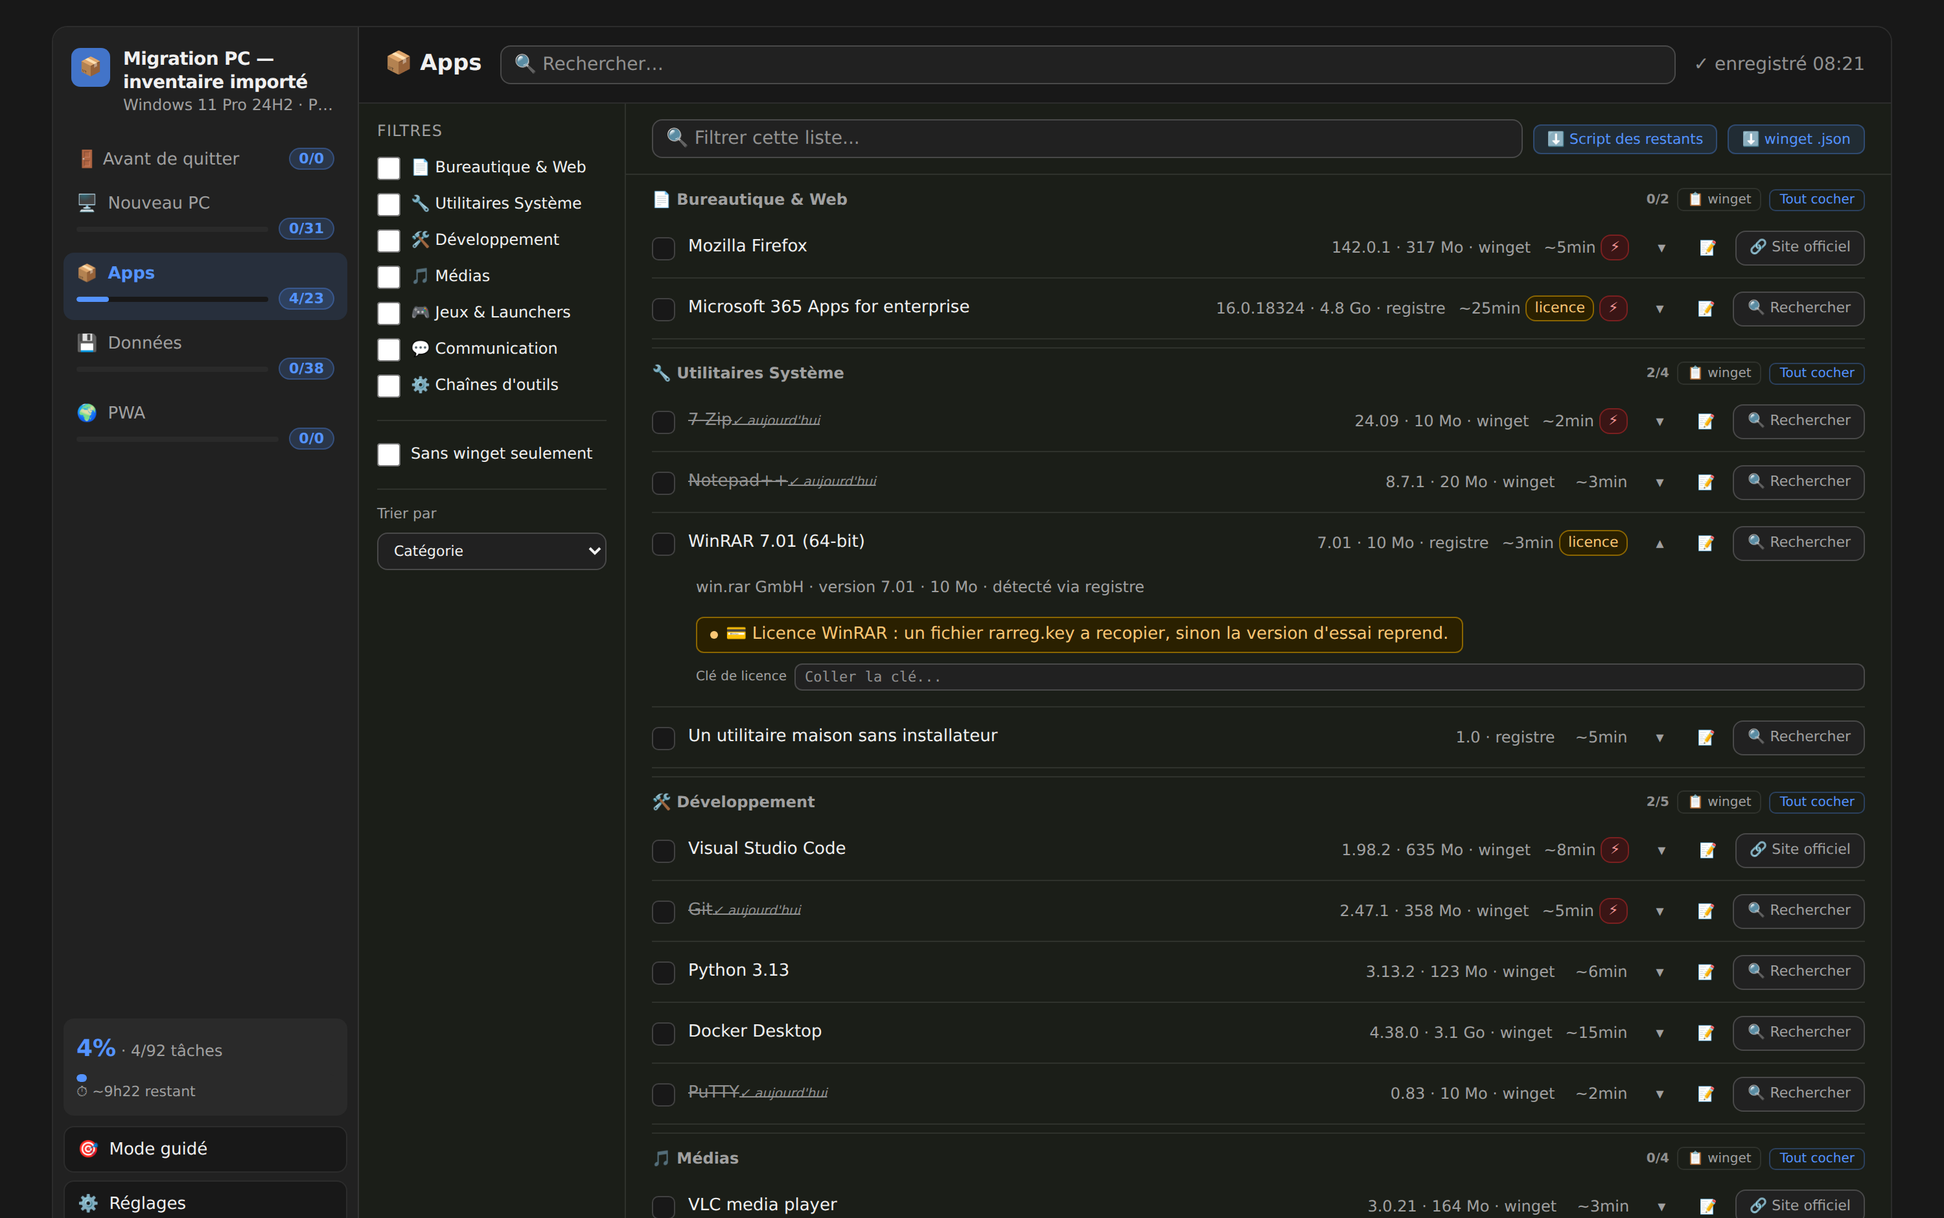
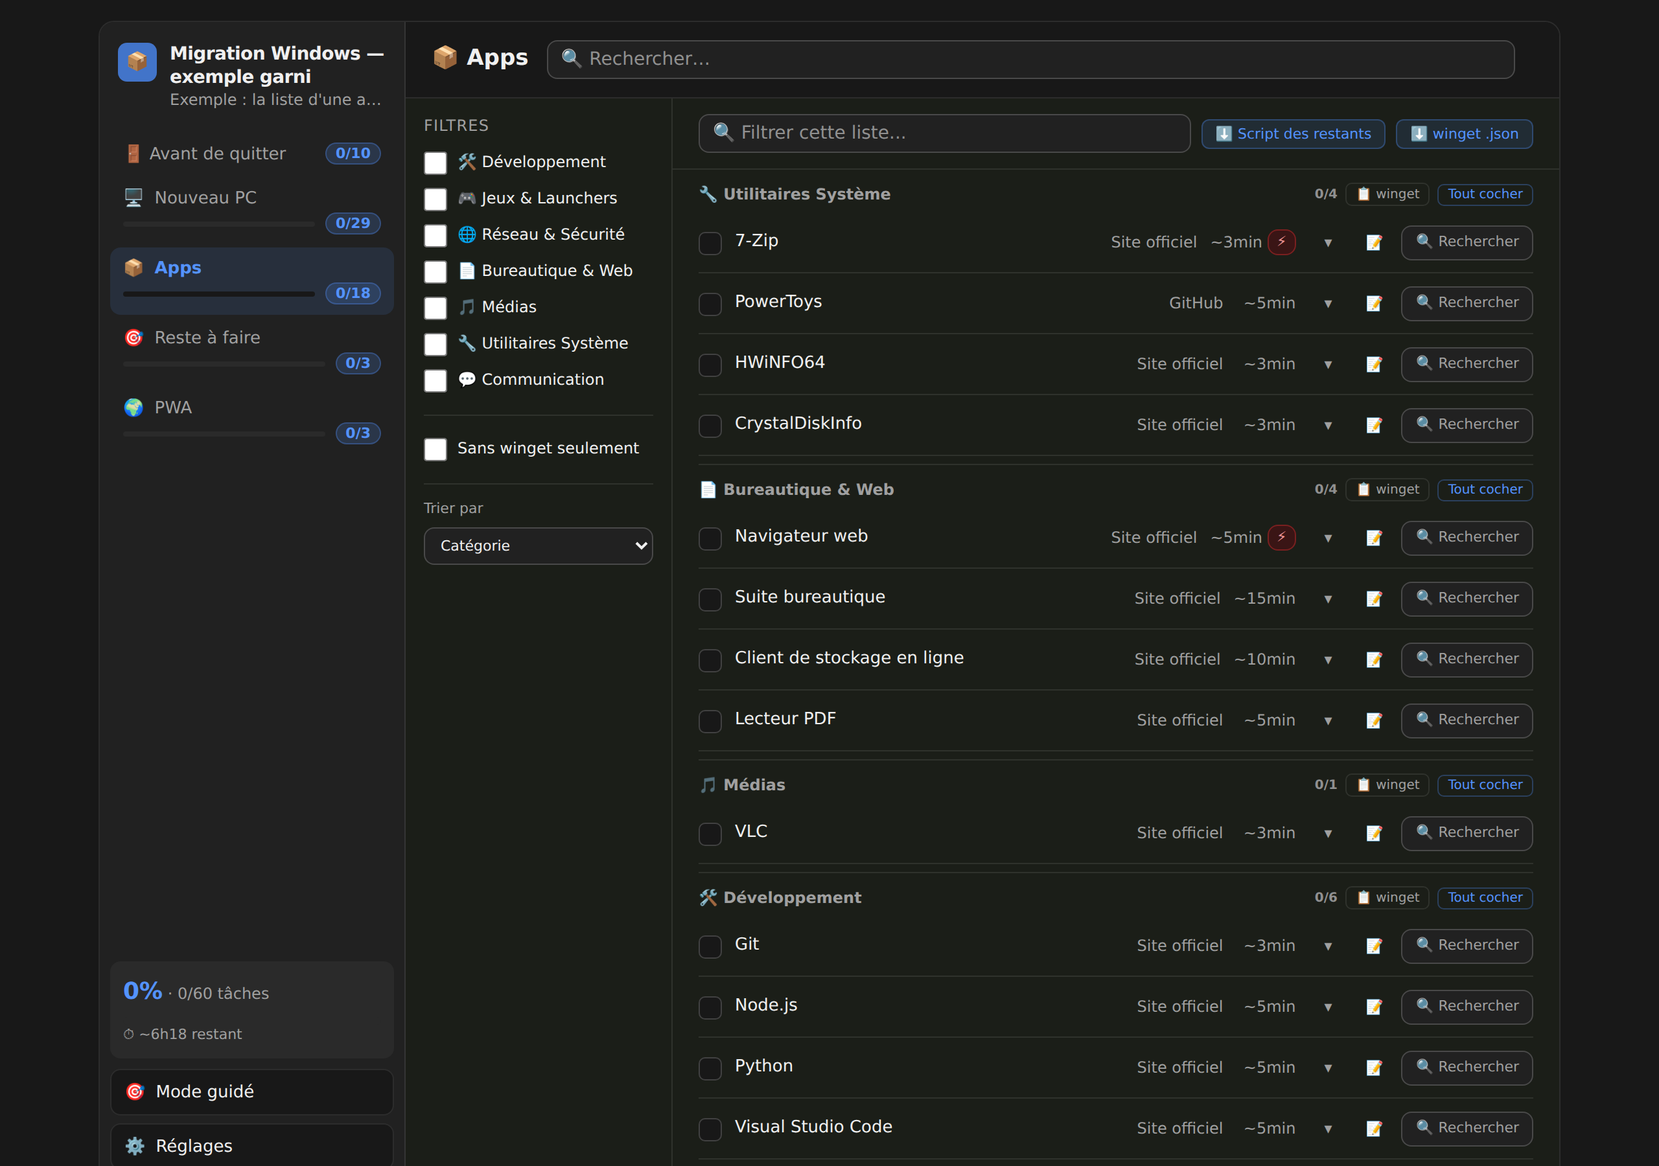
Retirer ce que la réduction avait laissé derrière elle
Trois restes, trouvés en cherchant au lieu de répondre « rien ne manque ».

1. La moitié « payant » et « variables d'environnement » vivait encore dans
   la page alors que leurs détecteurs sont partis. inventaireVersProfil
   écrivait pay et lic depuis un champ que plus rien ne produit, le badge
   « licence » ne pouvait plus s'afficher, mkLicField, mkEnvFields, ENV_VARS,
   S.lic et S.env n'étaient plus atteignables — avec leur CSS et leurs
   écouteurs. Tout part.

2. Le parcours du lanceur ne parlait nulle part de la clé USB. Il disait
   « sur la CIBLE : scanner de nouveau » sans jamais dire de débrancher la
   clé et de l'emporter, alors que c'est le geste dont tout dépend. Il le
   dit maintenant, des deux côtés.

3. Les captures du README montraient encore la page à six onglets, avec
   « Données » que le projet n'a plus. Une capture ne casse aucun test :
   rien ne signalait qu'elle avait vieilli. Elles sont refaites, et
   refaire-captures.js entre dans le dépôt pour que la prochaine fois coûte
   une commande.

Claude-Session: https://claude.ai/code/session_01A4AtVVND9HaH7XALzYv6Aj

diff --git a/index.html b/index.html
@@ -314,7 +314,6 @@ body.compact .item{padding:5px 0}
 .lg-br{display:none}
 .lg-l.done .lg-n{text-decoration:line-through;color:var(--tx3)}
 .lg-det{padding:2px 0 12px 34px;cursor:default}
-.lg-det .lic-field,.lg-det .env-field{margin-top:8px}
 .lg-det-d{font-size:12px;color:var(--tx2);line-height:1.5;margin-bottom:8px}
 /* Sur un ecran etroit, sept colonnes ne tiennent pas : la version et la
    provenance passent sous le nom plutot que de le comprimer a trois lettres. */
@@ -401,7 +400,6 @@ body.compact .item{padding:5px 0}
 .b-winget:hover{opacity:.8}
 .b-time{background:var(--bg2);color:var(--tx2);border-color:var(--brd)}
 .b-high{background:var(--bh-bg);color:var(--bh-tx);border-color:var(--bh-bd)}
-.b-pay{background:var(--warn-bg);color:var(--warn-tx);border-color:var(--warn-bd)}
 .b-pwa{background:var(--bpwa-bg);color:var(--bpwa-tx);border-color:var(--bpwa-bd)}
 .b-sync{background:var(--bord-bg);color:var(--bord-tx);border-color:var(--bord-bd);font-weight:600}
 .b-num{width:22px;height:22px;border-radius:50%;background:var(--accl);color:var(--acc-fort);border:.5px solid var(--accb);font-size:11px;font-weight:700;display:inline-flex;align-items:center;justify-content:center;flex-shrink:0}
@@ -484,19 +482,8 @@ body.compact .item{padding:5px 0}
 .item.post-item.done .chkbox{background:var(--bok-tx);border-color:var(--bok-bd)}
 
 /* ── V6 : champ licence ── */
-.lic-field{margin-top:6px;display:flex;align-items:center;gap:6px}
-.lic-field label{font-size:10px;color:var(--tx2);white-space:nowrap;flex-shrink:0}
-.lic-field input{flex:1;font-size:11px;padding:3px 7px;border:.5px solid var(--brd2);border-radius:6px;background:var(--bg2);color:var(--tx);outline:none;font-family:"Cascadia Code","Consolas",monospace}
-.lic-field input:focus{border-color:var(--acc-fort)}
-.lic-field input::placeholder{color:var(--tx3)}
 
 /* ── V6 : champ env ── */
-.env-fields{margin-top:6px;display:flex;flex-direction:column;gap:4px}
-.env-row{display:flex;align-items:center;gap:6px}
-.env-row label{font-size:10px;color:var(--tx2);width:110px;flex-shrink:0;font-family:"Cascadia Code","Consolas",monospace}
-.env-row input{flex:1;font-size:11px;padding:3px 7px;border:.5px solid var(--brd2);border-radius:6px;background:var(--bg2);color:var(--tx);outline:none;font-family:"Cascadia Code","Consolas",monospace}
-.env-row input:focus{border-color:var(--acc-fort)}
-.env-row input::placeholder{color:var(--tx3)}
 
 /* ── V6 : bouton suivant ── */
 .next-tab-btn{display:flex;align-items:center;justify-content:flex-end;padding:10px 20px;border-top:.5px solid var(--brd);background:transparent}
@@ -859,19 +846,15 @@ body.guide-actif .history-bar{display:none}
   .sec-prog-txt,.b-num,.item-date,.item-desc,.save-note,.save-path,
   .tbar-info,.gsearch-count,.sec-hdr-cnt{font-size:12px}
   .gp-label,.tab-badge,.badge,.sec-hdr{font-size:12px}
-  .lic-field label,.env-row label{font-size:12px}
 
   /* Champs : 16 px, sinon iOS zoome à la mise au point et casse la mise en page. */
-  input,select,textarea,.lic-field input,.env-row input,
+  input,select,textarea,
   #gsearch-input,#apps-search,.sort-sel{font-size:16px}
 
   /* Les libellés de variables passent au-dessus du champ : côte à côte,
      110 px de libellé ne laissent plus rien au champ sur 360 px de large. */
-  .env-row{flex-direction:column;align-items:stretch;gap:3px}
-  .env-row label{width:auto}
   /* Les trois lignes de variables se suivaient à 4 px : sur un écran tactile
      on vise le mauvais champ. */
-  .env-fields{gap:10px}
 
   /* .icon-only fixe une largeur de 32 px pour l'affichage large : la règle
      générique plus haut ne suffit pas à la remplacer. */
@@ -2857,7 +2840,6 @@ function exportProfil(){
 // ═══ INVENTAIRE → PROFIL ═══
 // Transforme la sortie de scan-pc.ps1 en profil utilisable.
 const CAT_PAR_DEFAUT='system';
-const CAT_OUTILS='outils';
 
 // Le scanner relève le matériel : autant remplir les champs prévus pour lui
 // plutôt que de les faire recopier à la main depuis une étiquette de carton.
@@ -2927,13 +2909,6 @@ function inventaireVersProfil(inv){
       }))
     :PROFIL_DEFAUT.pwa;
 
-  // Le scanner relève les variables personnalisées : autant remplir les champs
-  // prévus pour elles plutôt que de les faire recopier à la main.
-  const vars=inv.variables&&typeof inv.variables==='object'?Object.keys(inv.variables):[];
-  vars.forEach(function(v){
-    if(!S.env[v])S.env[v]=String(inv.variables[v]);
-  });
-  if(vars.length)saveState();
   const reprisMateriel=appliquerMateriel(inv.materiel,false);
   const cats={};
   const out=[];
@@ -2966,11 +2941,6 @@ function inventaireVersProfil(inv){
       u:a.lien||undefined,
       p:a.priorite||'med',
       t:a.duree||5,
-      // Ce que le scan sait d'une licence : rien de la machine, tout d'une
-      // liste tenue à la main. Vide veut dire « je ne sais pas », pas
-      // « gratuit », et la ligne ne prétend rien de plus.
-      pay:a.payant?String(a.payant):undefined,
-      lic:a.payant?true:undefined,
       d:bouts.join(' · ')||'Détecté sur l\'ancien PC.'
     });
   });
@@ -3511,7 +3481,7 @@ function traiterDonnees(d,provenance){
     }
     if(d && d.state){
       memoriserAnnulation('Progression importée.'+suffixe,false);
-      S={checked:d.state.checked||{},notes:d.state.notes||{},dates:d.state.dates||{},lic:d.state.lic||{},env:d.state.env||{},lastSave:null};
+      S={checked:d.state.checked||{},notes:d.state.notes||{},dates:d.state.dates||{},lastSave:null};
       saveState();renderAll();updateGlobal();
       dire('Progression importée : '+Object.keys(S.checked).length+' tâches cochées.');
       return true;
@@ -3536,7 +3506,7 @@ function handleImport(evt){
 
 // ═══ STATE ═══
 const PRIO = {high:0,med:1,ok:2};
-let S = {checked:{},notes:{},dates:{},lastSave:null,lic:{},env:{}};
+let S = {checked:{},notes:{},dates:{},lastSave:null};
 let curCats=[];
 let curTab='quitter',noWinget=false,viewMode='normal',isDark=false;
 // « journal » et non « history » : une globale nommée history masque
@@ -3618,7 +3588,7 @@ function searchUrl(name,e){
 
 // ═══ STORAGE ═══
 function loadState(){
-  try{const r=localStorage.getItem(CLE_ETAT);if(r){const d=JSON.parse(r);if(d&&typeof d==='object'){S.checked=d.checked||{};S.notes=d.notes||{};S.dates=d.dates||{};S.lastSave=d.lastSave||null;S.lic=d.lic||{};S.env=d.env||{};}}}catch(e){console.error(e);}
+  try{const r=localStorage.getItem(CLE_ETAT);if(r){const d=JSON.parse(r);if(d&&typeof d==='object'){S.checked=d.checked||{};S.notes=d.notes||{};S.dates=d.dates||{};S.lastSave=d.lastSave||null;}}}catch(e){console.error(e);}
   updateSaveLabel();
 }
 // Une sauvegarde qui echoue en silence est pire qu'une sauvegarde absente :
@@ -3976,7 +3946,6 @@ function mkAppItem(a){
   const ouvert=!!lignesOuvertes[a.id];
   const dt=ck&&S.dates[a.id]?'<span class="item-date">✓ '+fmtDate(S.dates[a.id])+'</span>':'';
   const pBadge=a.p==='high'?'<span class="badge b-high">⚡</span>':'';
-  const payBadge=a.pay?'<span class="badge b-pay" title="'+esc(String(a.pay))+'">licence</span>':'';
   const meta=[];
   if(a.ver)meta.push(esc(String(a.ver)));
   if(a.go)meta.push(esc(fmtTaille(a.go)));
@@ -3989,12 +3958,10 @@ function mkAppItem(a){
     detail='<div class="lg-det" onclick="event.stopPropagation()">'
       +(d?'<p class="lg-det-d">'+esc(d)+'</p>':'')
       +(a.warn?'<div class="warn-badge">⚠ '+esc(a.warn)+'</div>':'')
-      +(a.pay?'<div class="warn-badge">💳 '+esc(String(a.pay))+'</div>':'')
       +(a.dep?mkDepBadge(a.dep):'')
       +(cmd?'<button type="button" class="badge b-winget" onclick="'
         +(a.w?'copyWinget(\''+escJS(a.w)+'\',event)':'copierCommande(\''+escJS(a.cmd)+'\',event)')
         +'" title="Copier la commande d\'installation">📋 '+esc(cmd)+'</button>':'')
-      +mkLicField(a)
       +mkNoteArea(a.id)
       +'</div>';
   }
@@ -4005,7 +3972,7 @@ function mkAppItem(a){
       +'<span class="lg-n">'+esc(libelleDe(a))+dt+'</span>'
       +'<span class="lg-br" aria-hidden="true"></span>'
       +'<span class="lg-m">'+meta.join(' · ')+'</span>'
-      +'<span class="lg-t">'+(a.t?fmtTime(a.t):'')+payBadge+pBadge+'</span>'
+      +'<span class="lg-t">'+(a.t?fmtTime(a.t):'')+pBadge+'</span>'
       +'<button type="button" class="lg-plus" aria-expanded="'+ouvert+'" '
         +'aria-label="'+(ouvert?'Masquer':'Afficher')+' le détail de '+esc(libelleDe(a))+'" '
         +'onclick="basculerDetail(\''+escJS(a.id)+'\',event)">'+(ouvert?'▴':'▾')+'</button>'
@@ -4078,8 +4045,6 @@ function renderParPriorite(onglet,donnees,labels){
           +'<div class="item-name-row"><span class="item-name">'+esc(libelleDe(s))+'</span>'+dt+mkNoteBtn(s.id)+'</div>'
           +(s.p?'<div class="save-path">'+esc(s.p)+'</div>':'')
           +(s.note?'<div class="save-note">'+esc(s.note)+'</div>':'')
-          +mkLicField(s)
-          +mkEnvFields(s)
           +mkNoteArea(s.id)
         +'</div>'
       +'</div>';
@@ -4623,8 +4588,7 @@ let annulation=null;
 
 function copieEtat(){
   return {checked:Object.assign({},S.checked),notes:Object.assign({},S.notes),
-    dates:Object.assign({},S.dates),lic:Object.assign({},S.lic),
-    env:Object.assign({},S.env)};
+    dates:Object.assign({},S.dates)};
 }
 
 // Appelée AVANT l'action destructrice. Le profil n'est mémorisé que lorsque
@@ -4668,7 +4632,6 @@ function annuler(){
   }
   if(a.scenario&&a.scenario!==scenario)changerScenario(a.scenario);
   S.checked=a.etat.checked;S.notes=a.etat.notes;S.dates=a.etat.dates;
-  S.lic=a.etat.lic;S.env=a.etat.env;
   saveState();renderAll();updateGlobal();renderHistory();
   masquerAnnulation();
 }
@@ -4729,7 +4692,7 @@ function remiseAZero(){
     localStorage.removeItem(CLE_CONFIG);
     localStorage.removeItem(CLE_SCAN);
   }catch(e){console.error(e);}
-  S.checked={};S.notes={};S.dates={};S.lic={};S.env={};S.lastSave=null;
+  S.checked={};S.notes={};S.dates={};S.lastSave=null;
   journal=[];openNotes={};sautees={};
   scenario='tout';
   CONFIG={};construireConfig();fermerConfig();
@@ -5308,8 +5271,6 @@ window.addEventListener('DOMContentLoaded',function(){
   chargerInstantanes();
   chargerConfig();
   document.addEventListener('input',function(e){
-    if(e.target.classList.contains('lic-input')){saveLic(e.target.dataset.id,e.target.value);}
-    if(e.target.classList.contains('env-input')){saveEnv(e.target.dataset.var,e.target.value);}
   });
   document.addEventListener('keydown',clavierGlobal);
   try{
@@ -5341,39 +5302,6 @@ function enregistrerServiceWorker(){
   navigator.serviceWorker.register('sw.js').catch(function(e){
     console.info("Service worker non enregistré :",e&&e.message);
   });
-}
-
-// ═══ V6 : CHAMP LICENCE ═══
-// Affiché uniquement sur les éléments que le profil marque avec lic.
-function mkLicField(item){
-  if(!item||!item.lic)return '';
-  var id=item.id;
-  var val=S.lic&&S.lic[id]?S.lic[id]:'';
-  return '<div class="lic-field" onclick="event.stopPropagation()"><label>Clé de licence</label><input class="lic-input" data-id="'+esc(id)+'" type="text" placeholder="Coller la clé..." value="'+esc(val)+'"></div>';
-}
-function saveLic(id,val){
-  if(!S.lic)S.lic={};
-  if(val.trim())S.lic[id]=val;else delete S.lic[id];
-  saveState();
-}
-
-// ═══ V6 : CHAMP ENV ═══
-// env vaut true (liste par défaut) ou un tableau de noms de variables.
-const ENV_VARS=['ANDROID_HOME','JAVA_HOME','PATH_CUSTOM'];
-function mkEnvFields(item){
-  if(!item||!item.env)return '';
-  if(!S.env)S.env={};
-  var vars=Array.isArray(item.env)?item.env:ENV_VARS;
-  var fields=vars.map(function(v){
-    var val=S.env[v]||'';
-    return '<div class="env-row" onclick="event.stopPropagation()"><label>'+v+'</label><input class="env-input" data-var="'+v+'" type="text" placeholder="Chemin..." value="'+esc(val)+'"></div>';
-  }).join('');
-  return '<div class="env-fields">'+fields+'</div>';
-}
-function saveEnv(varname,val){
-  if(!S.env)S.env={};
-  if(val.trim())S.env[varname]=val;else delete S.env[varname];
-  saveState();
 }
 
 // ═══ V6 : BOUTON SUIVANT ═══

diff --git a/refaire-captures.js b/refaire-captures.js
@@ -1,0 +1,73 @@
+// Refabrique les captures du README. Six images : la liste, le mode guidé et
+// le téléphone, chacun dans les deux thèmes.
+//
+// Ce fichier existe parce que les captures ont menti. Le projet est passé de
+// six onglets à cinq, l'onglet « Données » a disparu, et le README a continué
+// d'afficher l'ancienne page pendant tout ce temps : une capture ne casse
+// aucun test, donc rien ne signale qu'elle a vieilli. Avec un script, les
+// refaire coûte une commande au lieu d'une demi-heure de clics.
+//
+//   node refaire-captures.js
+//
+// Le profil de démonstration est chargé comme le ferait quelqu'un qui clique
+// « Voir un exemple garni » — le profil livré n'a aucune application, et une
+// capture vide n'apprendrait rien.
+const {chromium}=require('playwright');
+const path=require('path');
+
+const R=__dirname;
+const HTML='file://'+path.join(R,'index.html');
+
+(async()=>{
+  const b=await chromium.launch({executablePath:process.env.CHROME});
+  for(const theme of ['clair','sombre']){
+    const t=theme==='clair'?'light':'dark';
+    // — bureau —
+    let ctx=await b.newContext({viewport:{width:1280,height:900},deviceScaleFactor:2});
+    let pg=await ctx.newPage();
+    await pg.goto(HTML,{waitUntil:'networkidle'});
+    await pg.evaluate(x=>document.documentElement.setAttribute('data-theme',x),t);
+    await pg.evaluate(()=>{try{chargerDemo();}catch(e){}});
+    await pg.waitForTimeout(400);
+    await pg.evaluate(()=>{
+      ['debut','annul'].forEach(id=>{const e=document.getElementById(id);if(e)e.style.display='none';});
+      document.querySelectorAll('.annul-bar,.annul').forEach(e=>e.style.display='none');
+    });
+    await pg.click('#tab-apps');
+    await pg.waitForTimeout(400);
+    await pg.screenshot({path:path.join(R,'captures','checklist-'+theme+'.png')});
+    await ctx.close();
+    // — mode guidé : une tâche à l'écran, donc une fenêtre à sa mesure —
+    ctx=await b.newContext({viewport:{width:1100,height:620},deviceScaleFactor:2});
+    pg=await ctx.newPage();
+    await pg.goto(HTML,{waitUntil:'networkidle'});
+    await pg.evaluate(x=>document.documentElement.setAttribute('data-theme',x),t);
+    await pg.evaluate(()=>{try{chargerDemo();}catch(e){}});
+    await pg.waitForTimeout(400);
+    await pg.evaluate(()=>{
+      ['debut','annul'].forEach(id=>{const e=document.getElementById(id);if(e)e.style.display='none';});
+      document.querySelectorAll('.annul-bar,.annul').forEach(e=>e.style.display='none');
+      try{basculerGuide();}catch(e){}
+    });
+    await pg.waitForTimeout(400);
+    await pg.screenshot({path:path.join(R,'captures','mode-guide-'+theme+'.png')});
+    await ctx.close();
+    // — téléphone —
+    ctx=await b.newContext({viewport:{width:390,height:844},deviceScaleFactor:3,hasTouch:true,isMobile:true});
+    pg=await ctx.newPage();
+    await pg.goto(HTML,{waitUntil:'networkidle'});
+    await pg.evaluate(x=>document.documentElement.setAttribute('data-theme',x),t);
+    await pg.evaluate(()=>{try{chargerDemo();}catch(e){}});
+    await pg.waitForTimeout(400);
+    await pg.evaluate(()=>{
+      ['debut','annul'].forEach(id=>{const e=document.getElementById(id);if(e)e.style.display='none';});
+      document.querySelectorAll('.annul-bar,.annul').forEach(e=>e.style.display='none');
+    });
+    await pg.click('#tab-apps');
+    await pg.waitForTimeout(400);
+    await pg.screenshot({path:path.join(R,'captures','mobile-'+theme+'.png')});
+    await ctx.close();
+  }
+  await b.close();
+  console.log('six captures refaites');
+})();

diff --git a/tests/test-reinit.js b/tests/test-reinit.js
@@ -39,13 +39,12 @@ const ouvrirPanneau=async()=>{
 const defaut=await pg.evaluate(()=>PROFIL_DEFAUT.meta.nom);
 let ko=0;const ok=(l,a,c)=>{const p=(c===undefined?!!a:a===c);console.log((p?'  ok  ':' FAIL ')+l+' → '+JSON.stringify(a)+(p?'':' (attendu '+JSON.stringify(c)+')'));if(!p)ko++;};
 
-// Etat de depart : quelques cases, une note, une cle, un scenario.
+// Etat de depart : quelques cases, une note, un scenario.
 const prepare=async()=>pg.evaluate(()=>{
   const ids=tousLesItems().slice(0,6).map(e=>e.id);
-  S.checked={};S.notes={};S.lic={};
+  S.checked={};S.notes={};
   ids.forEach(i=>{S.checked[i]=true;S.dates[i]=Date.now();});
   S.notes[ids[0]]='ma note';
-  S.lic['cle-test']='ABCD-1234';
   saveState();renderAll();updateGlobal();
   return ids.length;
 });
@@ -81,7 +80,6 @@ await pg.click('#reglages .reglages-item:not(.reglages-danger) button');
 await pg.waitForTimeout(300);
 ok('plus aucune case cochee',await pg.evaluate(()=>Object.keys(S.checked).length),0);
 ok('la note est conservee',await pg.evaluate(()=>S.notes&&Object.keys(S.notes).length),1);
-ok('la cle est conservee',await pg.evaluate(()=>S.lic['cle-test']),'ABCD-1234');
 ok('le scenario ne bouge pas',await pg.evaluate(()=>scenario),'reinstall');
 ok('le panneau se referme',await pg.isVisible('#reglages'),false);
 ok('le bandeau propose d\'annuler',await pg.isVisible('.annul-btn'),true);
@@ -119,7 +117,6 @@ ok('profil efface du navigateur',stock.profil,null);
 ok('scenario efface du navigateur',stock.scen,null);
 ok('plus aucune case',await pg.evaluate(()=>Object.keys(S.checked).length),0);
 ok('plus aucune note',await pg.evaluate(()=>Object.keys(S.notes).length),0);
-ok('plus aucune cle',await pg.evaluate(()=>Object.keys(S.lic).length),0);
 ok('retour au profil d\'exemple',await pg.textContent('#profil-titre'),defaut);
 ok('retour au scenario complet',await pg.evaluate(()=>scenario),'tout');
 ok('« Tout » redevient actif',await pg.getAttribute('#sc-tout','aria-pressed'),'true');
@@ -133,7 +130,6 @@ ok('le profil importe revient',await pg.textContent('#profil-titre'),'Profil imp
 ok('le scenario revient',await pg.evaluate(()=>scenario),'migration');
 ok('les cases reviennent',await pg.evaluate(()=>Object.keys(S.checked).length>0),true);
 ok('la note revient',await pg.evaluate(()=>S.notes&&Object.keys(S.notes).length),1);
-ok('la cle revient',await pg.evaluate(()=>S.lic['cle-test']),'ABCD-1234');
 ok('et tout est re-memorise',
   await pg.evaluate(()=>!!localStorage.getItem(CLE_PROFIL)&&!!localStorage.getItem(CLE_ETAT)),true);
 

diff --git a/sw.js b/sw.js
@@ -18,7 +18,7 @@
 // tests/test-pwa.js. Sans cela un appareil ayant deja installe la page
 // garderait l'ancien service worker, et la correction ne lui parviendrait pas.
 // Ne pas modifier a la main : lancer `npm run sync`.
-const CACHE = "migration-pc-843a06a2746f";
+const CACHE = "migration-pc-c64dd0430cab";
 const SQUELETTE = [
   "./",
   "./index.html",

diff --git a/README.md b/README.md
@@ -15,6 +15,10 @@ Les scripts sont facultatifs.
 
 ## Aperçu
 
+Ces images se refabriquent par `node refaire-captures.js` : une capture ne casse
+aucun test, donc rien ne signale qu'elle a vieilli — celles-ci ont montré une
+page à six onglets plusieurs semaines après qu'il n'y en ait plus que cinq.
+
 L'onglet **Apps** : la liste des logiciels relevés sur l'ancien PC, regroupés par
 catégorie, avec leur version, leur poids et la commande qui les réinstalle.
 
@@ -868,6 +872,7 @@ Migration-PC/
 ├── presets/demonstration.json    # l'exemple garni, chargé à la demande
 ├── scripts-sync.js               # recopie le profil et le nom de cache du sw
 ├── captures/                     # images du README
+├── refaire-captures.js           # les refabrique — `node refaire-captures.js`
 ├── resultat-scan.js              # écrit par les scripts, lu par la page en file://
 ├── instantane-source.json        # le relais : posé par le scan source, relu par le scan cible
 ├── tests/                        # suites Node, PowerShell et navigateur
